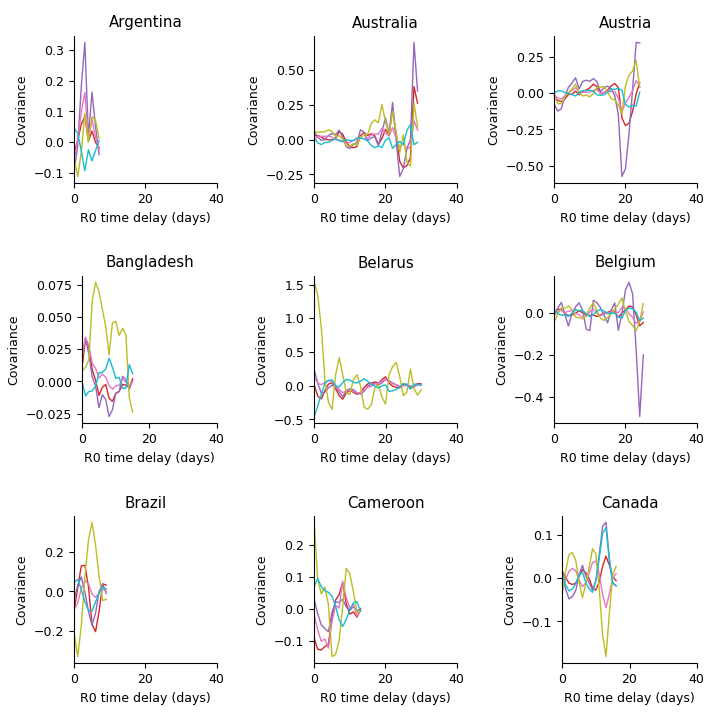
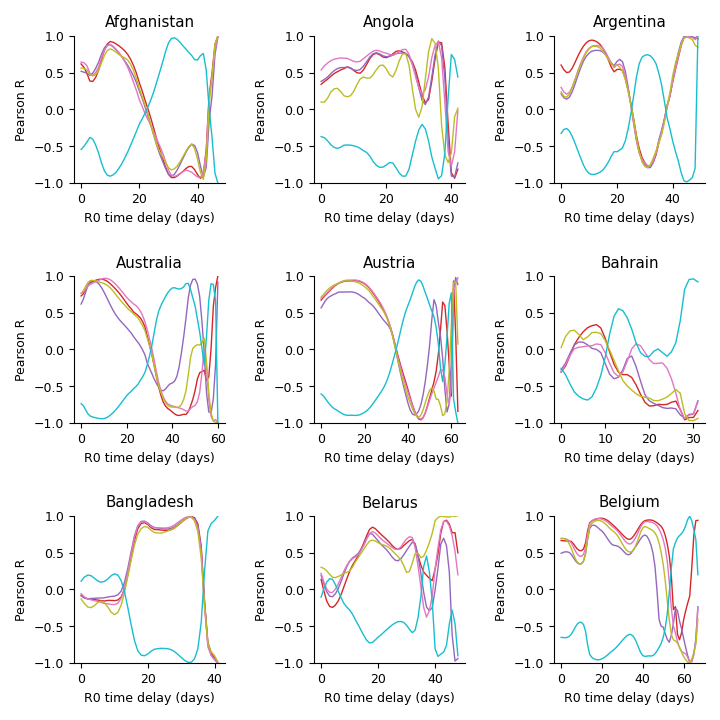
correlating all countries

diff --git a/docs/_site/R_and_mobility.html b/docs/_site/R_and_mobility.html
@@ -80,7 +80,13 @@
 <img src="/COVID19.github.io/assets/countries_4_R_delay.png" alt="countries_4" />
 <img src="/COVID19.github.io/assets/countries_5_R_delay.png" alt="countries_5" />
 <img src="/COVID19.github.io/assets/countries_6_R_delay.png" alt="countries_6" />
-<img src="/COVID19.github.io/assets/countries_7_R_delay.png" alt="countries_7" /></p>
+<img src="/COVID19.github.io/assets/countries_7_R_delay.png" alt="countries_7" />
+<img src="./assets/countries_8_R_delay.png" alt="countries_8" />
+<img src="./assets/countries_9_R_delay.png" alt="countries_9" />
+<img src="./assets/countries_10_R_delay.png" alt="countries_10" />
+<img src="./assets/countries_11_R_delay.png" alt="countries_11" />
+<img src="./assets/countries_12_R_delay.png" alt="countries_12" />
+<img src="./assets/countries_13_R_delay.png" alt="countries_13" /></p>
 
 <h2 id="time-delay-in-mobility">Time delay in mobility</h2>
 
@@ -91,7 +97,13 @@
 <img src="/COVID19.github.io/assets/countries_4_mobility_delay.png" alt="countries_4_mob" />
 <img src="/COVID19.github.io/assets/countries_5_mobility_delay.png" alt="countries_5_mob" />
 <img src="/COVID19.github.io/assets/countries_6_mobility_delay.png" alt="countries_6_mob" />
-<img src="/COVID19.github.io/assets/countries_7_mobility_delay.png" alt="countries_7_mob" /></p>
+<img src="/COVID19.github.io/assets/countries_7_mobility_delay.png" alt="countries_7_mob" />
+<img src="./assets/countries_8_mobility_delay.png" alt="countries_8_mob" />
+<img src="./assets/countries_9_mobility_delay.png" alt="countries_9_mob" />
+<img src="./assets/countries_10_mobility_delay.png" alt="countries_10_mob" />
+<img src="./assets/countries_11_mobility_delay.png" alt="countries_11_mob" />
+<img src="./assets/countries_12_mobility_delay.png" alt="countries_12_mob" />
+<img src="./assets/countries_13_mobility_delay.png" alt="countries_13_mob" /></p>
 
   </div>
 

diff --git a/simulations/mobility_signal/construct_signals.py b/simulations/mobility_signal/construct_signals.py
@@ -35,6 +35,8 @@ def construct_signals(R_estimates, epidemic_data, mobility_data, outdir):
         #Convert mobility data to datetime
         mobility_data['date'] = pd.to_datetime(mobility_data['date'], format='%Y/%m/%d')
 
+        #Mobility key conversions
+        key_conversions = {'United_States_of_America':'United_States'}
 
         #Covariate names
         covariate_names = ['retail_and_recreation_percent_change_from_baseline',
@@ -42,83 +44,118 @@ def construct_signals(R_estimates, epidemic_data, mobility_data, outdir):
                            'transit_stations_percent_change_from_baseline',
                            'workplaces_percent_change_from_baseline',
                            'residential_percent_change_from_baseline']
+
+        #Save fetched countries for montage script
+        fetched_countries = []
+        #Save correlations for overlay
+        C_mob_delay_all = []
+        C_R_delay_all = []
         #Get unique countries
         countries = epidemic_data['countriesAndTerritories'].unique()
         for country in countries:
             try:
                 country_R = pd.read_csv(R_estimates+country+'_R_estimate.csv')
-                #Fix datetime
-                country_R['date'] = pd.to_datetime(country_R['date'], format='%d/%m/%Y')
-                #Get country epidemic data
-                country_epidemic_data = epidemic_data[epidemic_data['countriesAndTerritories']==country]
-                #Sort on date
-                country_epidemic_data = country_epidemic_data.sort_values(by='dateRep')
-                #Reset index
-                country_epidemic_data = country_epidemic_data.reset_index()
-                #Get data for day >= t_c, where t_c is the day where 80 % of the max death count has been reached
-                death_80 = max(country_epidemic_data['deaths'])*0.8
-                signal_start = min(country_epidemic_data[country_epidemic_data['deaths']>=death_80].index)
-                country_epidemic_data = country_epidemic_data.loc[signal_start:]
-                #Merge dfs
-                country_signal_data = country_epidemic_data.merge(country_R, left_on = 'dateRep', right_on ='date', how = 'left')
-
-                #Mobility data from Google
-                country_mobility_data = mobility_data[mobility_data['country_region']==country]
-                #Get whole country - no subregion
-                country_mobility_data =  country_mobility_data[country_mobility_data['sub_region_1'].isna()]
-                if len(country_mobility_data)<2:
-                    print('No mobility data for', country)
-                    continue
-                #Merge
-                country_signal_data = country_signal_data.merge(country_mobility_data, left_on = 'dateRep', right_on ='date', how = 'left')
-
-                #Construct signals
-                country_signal_data['R_signal'] = 0
-                country_signal_data['retail_signal'] = 0
-                country_signal_data['grocery_signal'] = 0
-                country_signal_data['transit_signal'] = 0
-                country_signal_data['workplaces_signal'] = 0
-                country_signal_data['residential_signal'] = 0
-                #Look at the smoothing
-                #compare_smoothing(country_signal_data, outdir)
-                #Smooth
-                if len(country_signal_data)<=7:
-                    print(country, len(country_signal_data))
-                    continue
-                country_signal_data['Median(R)'] = savgol_filter(country_signal_data['Median(R)'], 7,3)
-                country_signal_data['retail_and_recreation_percent_change_from_baseline'] = savgol_filter(country_signal_data['retail_and_recreation_percent_change_from_baseline'], 7,3)
-                country_signal_data['grocery_and_pharmacy_percent_change_from_baseline'] = savgol_filter(country_signal_data['grocery_and_pharmacy_percent_change_from_baseline'], 7,3)
-                country_signal_data['transit_stations_percent_change_from_baseline'] = savgol_filter(country_signal_data['transit_stations_percent_change_from_baseline'], 7,3)
-                country_signal_data['workplaces_percent_change_from_baseline'] = savgol_filter(country_signal_data['workplaces_percent_change_from_baseline'], 7,3)
-                country_signal_data['residential_percent_change_from_baseline'] = savgol_filter(country_signal_data['residential_percent_change_from_baseline'], 7,3)
-                #Calculate signals
-                for i in range(len(country_signal_data)-1): #loop through data to construct signal
-                    row_i = country_signal_data.loc[i]
-                    row_i_1 = country_signal_data.loc[i+1]
-                    country_signal_data.loc[i+1,'R_signal']=row_i_1['Median(R)']-row_i['Median(R)']
-                    country_signal_data.loc[i+1,'retail_signal']=row_i_1['retail_and_recreation_percent_change_from_baseline']-row_i['retail_and_recreation_percent_change_from_baseline']
-                    country_signal_data.loc[i+1,'grocery_signal']=row_i_1['grocery_and_pharmacy_percent_change_from_baseline']-row_i['grocery_and_pharmacy_percent_change_from_baseline']
-                    country_signal_data.loc[i+1,'transit_signal']=row_i_1['transit_stations_percent_change_from_baseline']-row_i['transit_stations_percent_change_from_baseline']
-                    country_signal_data.loc[i+1,'workplaces_signal']=row_i_1['workplaces_percent_change_from_baseline']-row_i['workplaces_percent_change_from_baseline']
-                    country_signal_data.loc[i+1,'residential_signal']=row_i_1['residential_percent_change_from_baseline']-row_i['residential_percent_change_from_baseline']
-
-                #Make an array
-                signal_array = np.zeros((6,len(country_signal_data)))
-                signal_array[0,:]=country_signal_data['R_signal'][1:]
-                signal_array[1,:]=country_signal_data['retail_signal'][1:]
-                signal_array[2,:]=country_signal_data['grocery_signal'][1:]
-                signal_array[3,:]=country_signal_data['transit_signal'][1:]
-                signal_array[4,:]=country_signal_data['workplaces_signal'][1:]
-                signal_array[5,:]=country_signal_data['residential_signal'][1:]
-                #Get pearsonr for different time delays in mobility response
-                C_mob_delay, C_R_delay = cov_signals(signal_array)
-                #Plot
-                plot_cov(C_mob_delay, C_R_delay, outdir, country)
             except:
-                continue
+                print('Cant read '+country+'_R_estimate.csv' )
+            #Fix datetime
+            country_R['date'] = pd.to_datetime(country_R['date'], format='%d/%m/%Y')
+            #Get country epidemic data
+            country_epidemic_data = epidemic_data[epidemic_data['countriesAndTerritories']==country]
+            #Sort on date
+            country_epidemic_data = country_epidemic_data.sort_values(by='dateRep')
+            #Reset index
+            country_epidemic_data = country_epidemic_data.reset_index()
+            #Get data for day >= t_c, where t_c is the day where 80 % of the max death count has been reached
+            #death_t = max(country_epidemic_data['deaths'])
+            #signal_start = min(country_epidemic_data[country_epidemic_data['deaths']>=death_t].index)
+            #Get all dates with at least 10 deaths
+            #country_epidemic_data = country_epidemic_data.loc[signal_start:]
+            #Merge dfs
+            country_signal_data = country_R.merge(country_epidemic_data, left_on = 'date', right_on ='dateRep', how = 'left')
 
-def cov_signals(signal_array):
-    '''Analyze the covariance of the R values with the mobility data
+            #Mobility data from Google
+            if country in key_conversions.keys():
+                mob_key = key_conversions[country]
+            else:
+                mob_key = ' '.join(country.split('_'))
+
+            country_mobility_data = mobility_data[mobility_data['country_region']==mob_key]
+            #Get whole country - no subregion
+            country_mobility_data =  country_mobility_data[country_mobility_data['sub_region_1'].isna()]
+            country_mobility_data = country_mobility_data[country_mobility_data['date']<=max(country_signal_data['date'])]
+            if len(country_mobility_data)<2:
+                print('No mobility data for', country)
+                continue
+            #Merge
+            if min(country_signal_data['date'])<min(country_mobility_data['date']):
+                country_signal_data = country_mobility_data.merge(country_signal_data, left_on = 'date', right_on ='date', how = 'left')
+            else:
+                country_signal_data = country_signal_data.merge(country_mobility_data, left_on = 'date', right_on ='date', how = 'left')
+            #Construct signals
+            country_signal_data['R_signal'] = 0
+            country_signal_data['retail_signal'] = 0
+            country_signal_data['grocery_signal'] = 0
+            country_signal_data['transit_signal'] = 0
+            country_signal_data['workplaces_signal'] = 0
+            country_signal_data['residential_signal'] = 0
+            #Look at the smoothing
+            #compare_smoothing(country_signal_data, outdir)
+            #Smooth
+            if len(country_signal_data)<=7:
+                print(country, len(country_signal_data))
+                continue
+            country_signal_data['Median(R)'] = savgol_filter(country_signal_data['Median(R)'], 7,3)
+            country_signal_data['retail_and_recreation_percent_change_from_baseline'] = savgol_filter(country_signal_data['retail_and_recreation_percent_change_from_baseline'], 7,3)
+            country_signal_data['grocery_and_pharmacy_percent_change_from_baseline'] = savgol_filter(country_signal_data['grocery_and_pharmacy_percent_change_from_baseline'], 7,3)
+            country_signal_data['transit_stations_percent_change_from_baseline'] = savgol_filter(country_signal_data['transit_stations_percent_change_from_baseline'], 7,3)
+            country_signal_data['workplaces_percent_change_from_baseline'] = savgol_filter(country_signal_data['workplaces_percent_change_from_baseline'], 7,3)
+            country_signal_data['residential_percent_change_from_baseline'] = savgol_filter(country_signal_data['residential_percent_change_from_baseline'], 7,3)
+
+            #Calculate signals
+            for i in range(len(country_signal_data)-1): #loop through data to construct signal
+                row_i = country_signal_data.loc[i]
+                row_i_1 = country_signal_data.loc[i+1]
+                country_signal_data.loc[i+1,'R_signal']=row_i_1['Median(R)']-row_i['Median(R)']
+                country_signal_data.loc[i+1,'retail_signal']=row_i_1['retail_and_recreation_percent_change_from_baseline']-row_i['retail_and_recreation_percent_change_from_baseline']
+                country_signal_data.loc[i+1,'grocery_signal']=row_i_1['grocery_and_pharmacy_percent_change_from_baseline']-row_i['grocery_and_pharmacy_percent_change_from_baseline']
+                country_signal_data.loc[i+1,'transit_signal']=row_i_1['transit_stations_percent_change_from_baseline']-row_i['transit_stations_percent_change_from_baseline']
+                country_signal_data.loc[i+1,'workplaces_signal']=row_i_1['workplaces_percent_change_from_baseline']-row_i['workplaces_percent_change_from_baseline']
+                country_signal_data.loc[i+1,'residential_signal']=row_i_1['residential_percent_change_from_baseline']-row_i['residential_percent_change_from_baseline']
+            #Make an array
+            signal_array = np.zeros((6,len(country_signal_data)-1))
+            # signal_array[0,:]=country_signal_data['R_signal'][1:]
+            # signal_array[1,:]=country_signal_data['retail_signal'][1:]
+            # signal_array[2,:]=country_signal_data['grocery_signal'][1:]
+            # signal_array[3,:]=country_signal_data['transit_signal'][1:]
+            # signal_array[4,:]=country_signal_data['workplaces_signal'][1:]
+            # signal_array[5,:]=country_signal_data['residential_signal'][1:]
+            signal_array[0,:]=country_signal_data['Median(R)'][1:]
+            signal_array[1,:]=country_signal_data['retail_and_recreation_percent_change_from_baseline'][1:]
+            signal_array[2,:]=country_signal_data['grocery_and_pharmacy_percent_change_from_baseline'][1:]
+            signal_array[3,:]=country_signal_data['transit_stations_percent_change_from_baseline'][1:]
+            signal_array[4,:]=country_signal_data['workplaces_percent_change_from_baseline'][1:]
+            signal_array[5,:]=country_signal_data['residential_percent_change_from_baseline'][1:]
+
+            #Check NaNs
+            if len(signal_array[np.isnan(signal_array)])>1:
+                print(country, 'contains NaNs')
+                continue
+            #Get pearsonr for different time delays in mobility response
+            C_mob_delay, C_R_delay = corr_signals(signal_array)
+            C_mob_delay_all.append(C_mob_delay)#Save
+            C_R_delay_all.append(C_R_delay)
+            #Plot
+            #plot_corr(C_mob_delay, C_R_delay, outdir, country, 'Pearson R')
+            #For montage script
+            fetched_countries.append(country)
+
+        #Plot all countries in overlap per mobility category
+        plot_corr_all_countries(C_mob_delay_all, C_R_delay_all, 'Pearson R', outdir)
+        #Write montage script
+        write_montage(fetched_countries, outdir)
+
+def corr_signals(signal_array):
+    '''Analyze the correlation of the R values with the mobility data
     using different time delays (s)
     '''
     s_max = signal_array.shape[1]
@@ -128,18 +165,19 @@ def cov_signals(signal_array):
     for s in range(s_max-2): #s is the number of future days to correlate the mobility data over
         for m in range(1,6):#all mobility data
             if s == 0:
-                c_mob = np.cov(signal_array[0,:],signal_array[m,s:])[0,1]
-                c_R = np.cov(signal_array[m,:],signal_array[0,s:])[0,1] #pos 0 of the array contains the R values
+                c_mob = pearsonr(signal_array[0,:],signal_array[m,s:])[0]
+                c_R = pearsonr(signal_array[m,:],signal_array[0,s:])[0]#pos 0 of the array contains the R values
+
             else:
-                c_mob = np.cov(signal_array[0,:-s],signal_array[m,s:])[0,1]
-                c_R = np.cov(signal_array[m,:-s],signal_array[0,s:])[0,1]
+                c_mob = pearsonr(signal_array[0,:-s],signal_array[m,s:])[0]
+                c_R = pearsonr(signal_array[m,:-s],signal_array[0,s:])[0]
             #Assign correlation
             C_mob_delay[m-1,s]=c_mob
             C_R_delay[m-1,s]=c_R
 
     return C_mob_delay, C_R_delay
 
-def plot_cov(C_mob_delay, C_R_delay, outdir, country):
+def plot_corr(C_mob_delay, C_R_delay, outdir, country, ylabel):
     '''Plot the covariance btw the R values
     and different time delays (s)
     '''
@@ -153,9 +191,9 @@ def plot_cov(C_mob_delay, C_R_delay, outdir, country):
         ax.plot(range(C_mob_delay.shape[1]),C_mob_delay[i,:], label=keys[i], color = colors[i], linewidth = 1.0)
     ax.set_title(country)
     ax.set_xlabel('mobility time delay (days)')
-    #ax.set_ylim([-1,1])
-    ax.set_xlim([0,40])
-    ax.set_ylabel('Covariance')
+    ax.set_ylim([-1,1])
+    #ax.set_xlim([0,40])
+    ax.set_ylabel(ylabel)
     fig.tight_layout()
     ax.spines['top'].set_visible(False)
     ax.spines['right'].set_visible(False)
@@ -167,14 +205,55 @@ def plot_cov(C_mob_delay, C_R_delay, outdir, country):
         ax.plot(range(C_R_delay.shape[1]),C_R_delay[i,:], label=keys[i], color = colors[i], linewidth = 1.0)
     ax.set_title(country)
     ax.set_xlabel('R0 time delay (days)')
-    #ax.set_ylim([-1,1])
-    ax.set_xlim([0,40])
-    ax.set_ylabel('Covariance')
+    ax.set_ylim([-1,1])
+    #ax.set_xlim([0,40])
+    ax.set_ylabel(ylabel)
     fig.tight_layout()
     ax.spines['top'].set_visible(False)
     ax.spines['right'].set_visible(False)
     fig.savefig(outdir+country+'_R_delay.png',  format='png')
     plt.close()
+
+def plot_corr_all_countries(C_mob_delay_all, C_R_delay_all, ylabel, outdir):
+    '''Plot all countries in overlay per mobility category
+    '''
+
+    keys = ['retail and recreation', 'grocery and pharmacy',
+            'transit stations','workplaces','residential']
+    colors = ['tab:red','tab:purple','tab:pink','tab:olive','tab:cyan']
+
+    print('Plotting',len(C_mob_delay_all), 'countries')
+    #Mobility delay
+    for i in range(5):
+        all_countries_x = []
+        all_countries_y = []
+        fig, ax = plt.subplots(figsize=(6, 6))
+        for j in range(len(C_mob_delay_all)):
+            all_countries_x.extend(np.arange(C_mob_delay_all[j].shape[1]))
+            all_countries_y.extend(C_mob_delay_all[j][i,:])
+        sns.kdeplot(all_countries_x,all_countries_y, shade = True)
+        ax.set_title(keys[i])
+        ax.set_xlabel('mobility time delay (days)')
+        ax.set_ylabel(ylabel)
+        fig.tight_layout()
+        ax.spines['top'].set_visible(False)
+        ax.spines['right'].set_visible(False)
+        fig.savefig(outdir+'all/'+keys[i]+'_mobility_delay_all.png',  format='png')
+        plt.close()
+
+
+def write_montage(fetched_countries, outdir):
+    '''Write script for montage
+    '''
+    with open(outdir+'montage.sh', 'w') as file:
+        file.write('OUTDIR=/home/patrick/COVID19.github.io/docs/assets\n')
+        file.write("for type in '_R_delay' '_mobility_delay'\n")
+        file.write('  do\n')
+        fig_num=1
+        for i in range(0,len(fetched_countries)-9,9):
+            file.write('    montage '+"$type'.png' ".join(fetched_countries[i:i+9])+"$type'.png' -tile 3x3 -geometry +2+2 $OUTDIR'/countries_"+str(fig_num)+"'$type'.png'\n")
+            fig_num+=1
+        file.write('done')
 
 def compare_smoothing(country_signal_data, outdir):
     '''Compare different kinds of smoothing

diff --git a/docs/R_and_mobility.md b/docs/R_and_mobility.md
@@ -13,6 +13,12 @@ title: Correlating R0 changes with mobility changes
 ![countries_5](./assets/countries_5_R_delay.png)
 ![countries_6](./assets/countries_6_R_delay.png)
 ![countries_7](./assets/countries_7_R_delay.png)
+![countries_8](./assets/countries_8_R_delay.png)
+![countries_9](./assets/countries_9_R_delay.png)
+![countries_10](./assets/countries_10_R_delay.png)
+![countries_11](./assets/countries_11_R_delay.png)
+![countries_12](./assets/countries_12_R_delay.png)
+![countries_13](./assets/countries_13_R_delay.png)
 
 
 ## Time delay in mobility
@@ -25,3 +31,9 @@ title: Correlating R0 changes with mobility changes
 ![countries_5_mob](./assets/countries_5_mobility_delay.png)
 ![countries_6_mob](./assets/countries_6_mobility_delay.png)
 ![countries_7_mob](./assets/countries_7_mobility_delay.png)
+![countries_8_mob](./assets/countries_8_mobility_delay.png)
+![countries_9_mob](./assets/countries_9_mobility_delay.png)
+![countries_10_mob](./assets/countries_10_mobility_delay.png)
+![countries_11_mob](./assets/countries_11_mobility_delay.png)
+![countries_12_mob](./assets/countries_12_mobility_delay.png)
+![countries_13_mob](./assets/countries_13_mobility_delay.png)
